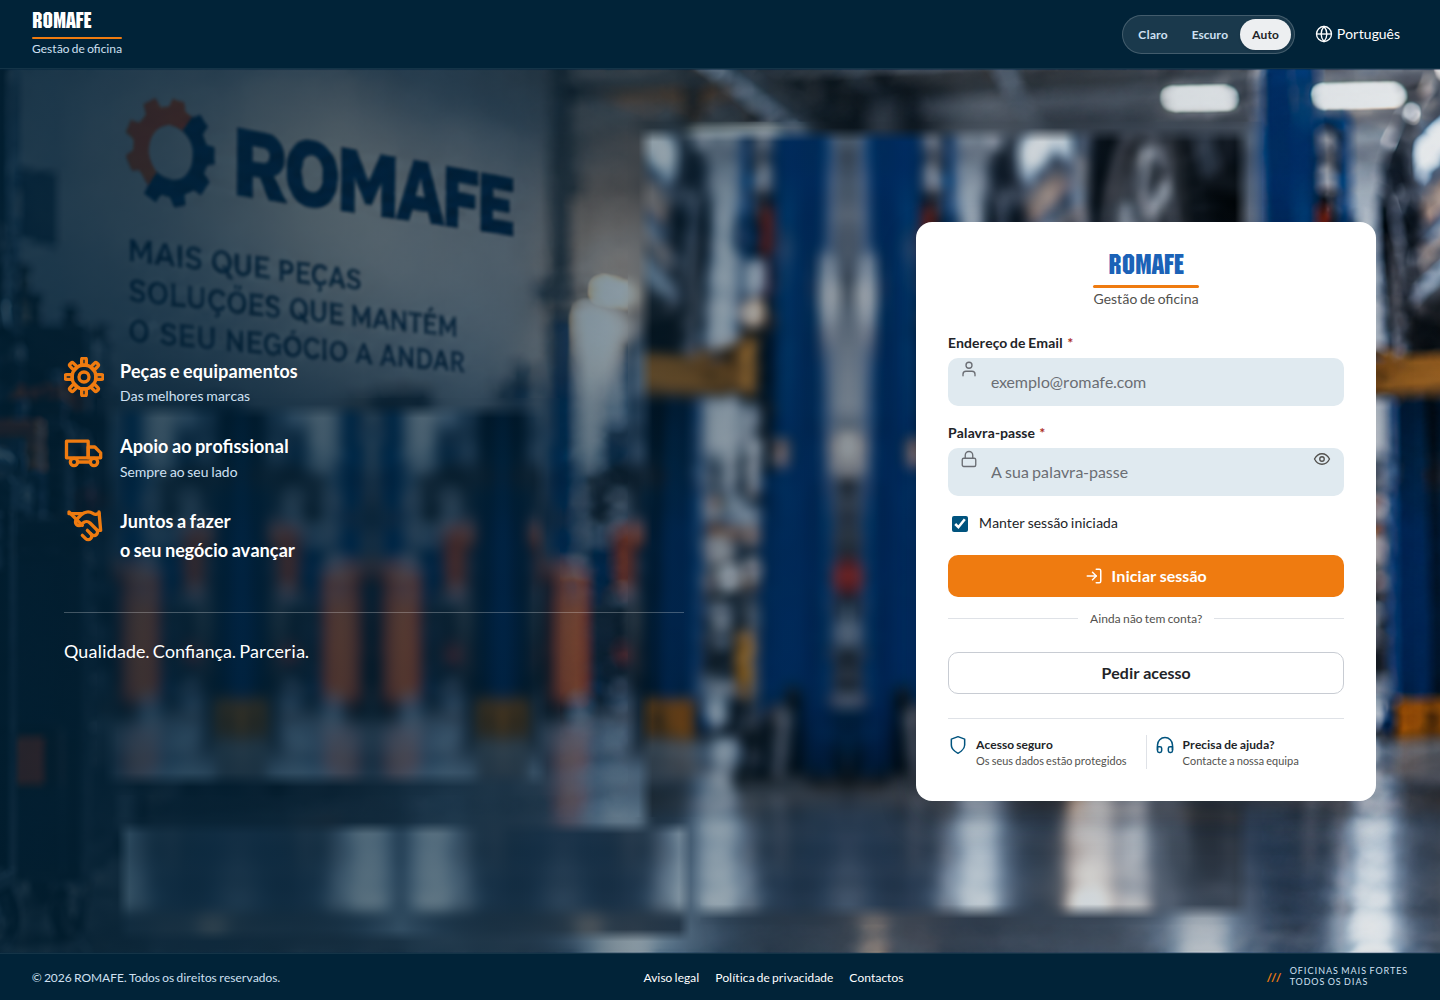
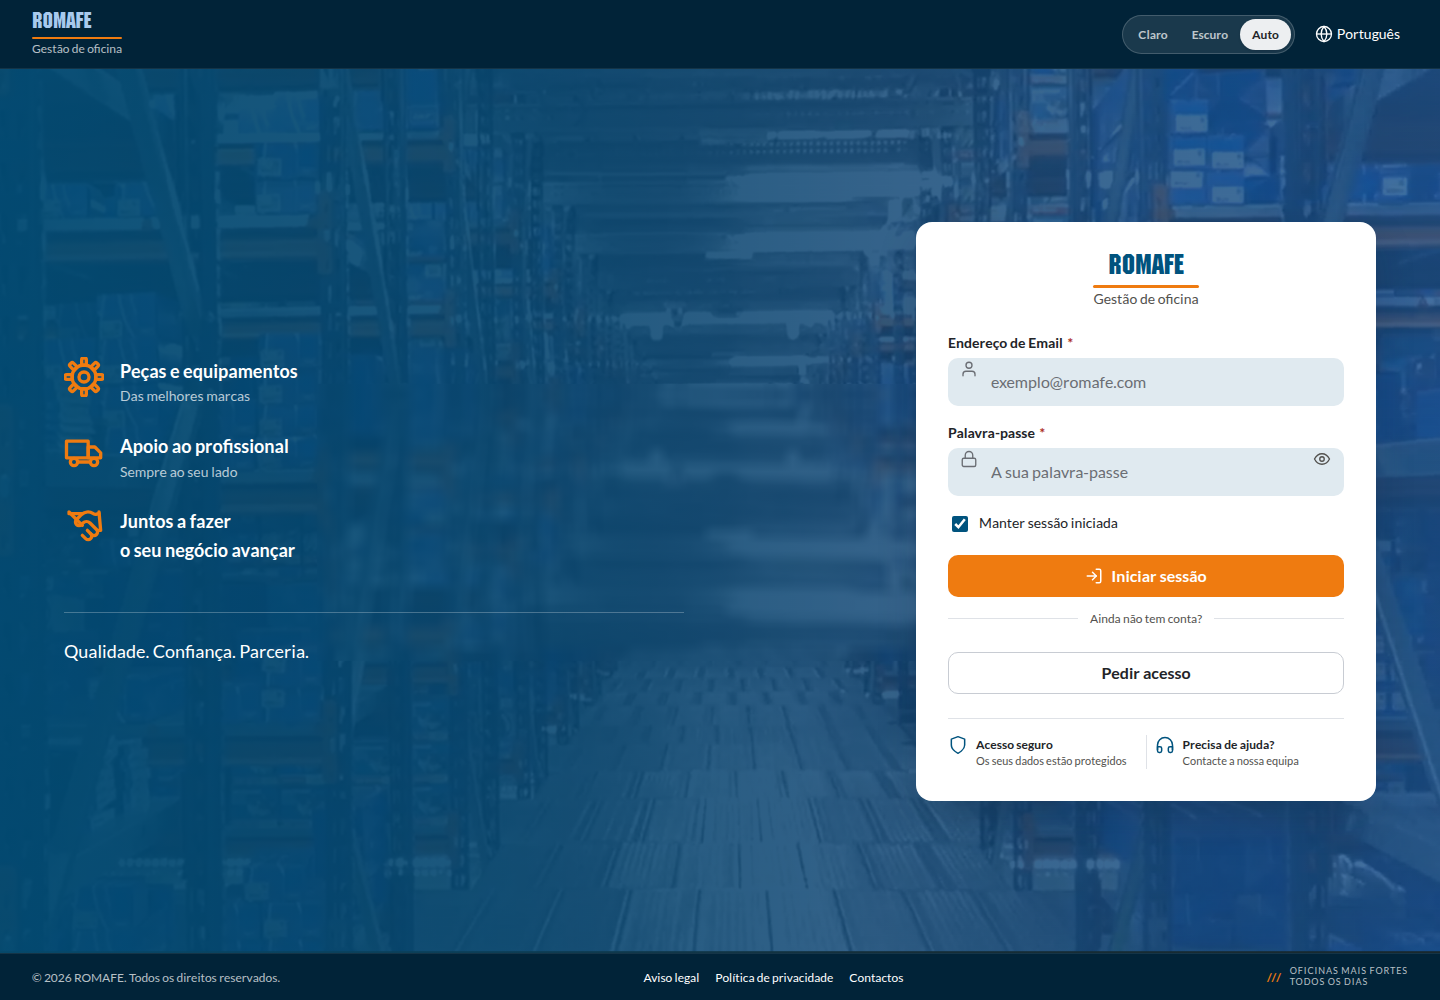
Os azuis passam a ser os do manual, e o fundo passa a ser o armazém
Tinha três cores que não existem no capítulo 02. O logótipo estava a #1b62b7,
tirado do logótipo impresso; a barra de topo escurecia para #1b1b19 no tema
escuro; e o texto de apoio sobre a fotografia era #cfe0f2. Nenhuma delas está na
tabela, e o §11.9 diz porquê isso é pior do que um azul errado: ninguém dá pela
diferença, e a identidade dissolve-se sem ninguém decidir nada.

Agora os dois azuis estão separados como o §11.4 obriga. O --c-marca-fundo é o
azul que é fundo e não muda com o tema, e serve a barra do portal e os
cabeçalhos dos painéis. O --c-logotipo é o azul que é tinta: #00537e no claro,
#a8caee no escuro. ROMAFE fica sempre azul e sempre em Motor, também sobre
fundo escuro, onde o #00537e daria 1.53:1.

A barra de topo volta a #012338 nos dois temas, pela razão do §6: se a navegação
clareasse no escuro, o produto passava a parecer dois. O texto sobre laranja
volta a ser branco sempre, que é o que o §3 diz.

A fotografia é agora o armazém, com o letreiro e os três botões apagados e
tapados com a própria fotografia espelhada de cima.

Claude-Session: https://claude.ai/code/session_01GVuYjnRH5bPY4K9mtqYcc2

diff --git a/web/documentacao.html b/web/documentacao.html
@@ -143,7 +143,7 @@
       <table class="tabela">
         <thead><tr><th>Peça</th><th>Valor</th><th>Razão</th></tr></thead>
         <tbody>
-          <tr><td>Nome</td><td>Motor, <code>--c-logotipo</code></td><td>É a letra e a cor da marca impressa</td></tr>
+          <tr><td>Nome</td><td>Motor, <code>--c-logotipo</code></td><td>ROMAFE é sempre azul e sempre em Motor</td></tr>
           <tr><td>Risco</td><td><code>--c-acao</code>, 3px</td><td>É o único sítio onde o laranja não é uma ação, e por isso não tem concorrência</td></tr>
           <tr><td>Subtítulo</td><td><code>--t-sm</code>, <code>--c-texto-2</code></td><td>Diz o que é o produto, não o que é a empresa</td></tr>
           <tr><td>Largura do risco</td><td>A do conjunto</td><td>Cresce com o subtítulo, não com o nome: é o que dá a mesma silhueta em qualquer tamanho</td></tr>
@@ -151,10 +151,11 @@
       </table>
 
       <p class="nota">
-        Sobre superfície escura, <code>.lockup--invertido</code>: o nome passa a
-        branco e o subtítulo à tinta clara. O azul do logótipo sobre o azul
-        escuro dá 1.53:1 e não se lê — é a armadilha de 17 §2.4. O risco laranja
-        e a ordem não mudam.
+        Sobre superfície escura, <code>.lockup--invertido</code>: o nome
+        continua azul, mas é o <code>#a8caee</code> — o azul que é tinta. O
+        <code>#00537e</code> sobre o azul escuro dá 1.53:1 e desaparece, e é por
+        isso que 02 §11.4 manda separar o azul que é fundo do azul que é tinta.
+        O risco laranja, a letra e a ordem não mudam.
       </p>
     </section>
 
@@ -430,11 +431,16 @@
         veres o estrago, não para o deixares assim.
       </p>
       <p>
-        A fotografia que vem no ficheiro foi tirada da própria maqueta: apaguei
-        o cartão, as vantagens e a assinatura, e tapei esses sítios com oficina
-        vinda de ao lado. A mensagem da parede é parte da fotografia, e por isso
-        o título grande da esquerda vem escondido — está em
-        <code>.esta-na-foto</code> e volta pelo painel, em Peça → Visível.
+        A fotografia que vem no ficheiro é o armazém do site, com o letreiro
+        <em>Rolling your way</em> e os três botões apagados e tapados com a
+        própria fotografia espelhada de cima. Em <code>assets/img/</code> está
+        também a oficina, tirada da maqueta da mesma maneira.
+      </p>
+      <p class="nota">
+        O título grande da esquerda vem escondido, em <code>.esta-na-foto</code>,
+        porque na fotografia da oficina a mensagem está pintada na parede. Com a
+        fotografia do armazém pode mostrar-se: escolhe a camada e carrega em
+        Peça → Visível.
       </p>
 
       <h3>Como se mexe</h3>
@@ -476,6 +482,9 @@
           <tr><td>Largura do cartão</td><td>400px, 19 §1</td><td>460px</td><td>É a largura da maqueta, e é o que faz as duas frases de apoio caberem numa linha</td></tr>
           <tr><td>Fundo dos campos</td><td>Branco</td><td><code>--c-marca-suave</code></td><td>Um campo branco dentro de um cartão branco não se vê</td></tr>
           <tr><td>Manter sessão iniciada</td><td>Desligada e com dica, 19 §5</td><td>Ligada e sem dica</td><td><strong>Contraria o manual.</strong> É o que está na maqueta. O manual quer o contrário porque o computador do armazém é partilhado</td></tr>
+          <tr><td>Azul do logótipo</td><td><code>#1b62b7</code>, tirado do logótipo impresso</td><td><code>#00537e</code> e <code>#a8caee</code></td><td>02 §11.9: um azul quase igual ao da marca é pior do que um azul errado, porque ninguém o vê</td></tr>
+          <tr><td>Barra de topo no tema escuro</td><td>Escurecia para quase preto</td><td>Fica <code>#012338</code></td><td>02 §6: se a navegação clareasse no escuro, o produto passava a parecer dois</td></tr>
+          <tr><td>Texto sobre o laranja</td><td>Escurecia no tema escuro</td><td>Branco sempre</td><td>02 §3: o par não muda porque o fundo também não</td></tr>
           <tr><td>Modo auto</td><td>O site trata-o como claro</td><td>Segue o sistema</td><td>O site não tem regra <code>prefers-color-scheme</code>. É a única diferença de comportamento, e está em <code>tokens.css</code></td></tr>
         </tbody>
       </table>

diff --git a/web/assets/css/tokens.css b/web/assets/css/tokens.css
@@ -114,24 +114,24 @@
 
 
 /* ---------- ACRESCENTOS DA ENTRADA ----------
-   O que o site não tinha por não ter ecrã de entrada. Nada aqui inventa
-   um valor novo: tudo sai dos tokens de cima ou do manual em PDF. */
+   Nenhuma cor nova (02 §11.2). Cada valor daqui está no capítulo 02,
+   e os dois azuis estão separados como o §11.4 obriga: um é fundo e não
+   muda com o tema, o outro é tinta e muda. */
 :root {
+  --c-marca-fundo:    #00537e;                 /* 02 §6: o azul é o mesmo nos dois temas */
   --c-entrada-fundo:  #012338;                 /* 02 §1.1 superfície invertida */
-  --c-entrada-veu:    rgba(1, 35, 56, .78);
+  --c-entrada-veu:    rgba(0, 83, 126, .78);   /* 02 §1.1: as transparências do azul */
   --c-entrada-tinta:  #ffffff;
-  --c-entrada-tinta-2:#cfe0f2;
-  --c-logotipo:       #1b62b7;                 /* azul do logotipo impresso */
+  --c-entrada-tinta-2: rgba(255, 255, 255, .72); /* 02 §6: o branco a 72% do menu */
+  --c-logotipo:       #00537e;                 /* o azul da marca, e não um parecido */
+  --c-campo-fundo:    var(--c-marca-suave);    /* 02 §4.2: o fundo do selo de informação */
   --a-campo:          44px;                    /* 19 §2: 44 e não 42 */
   --l-cartao:         460px;                   /* a maqueta. O 19 §1 pede 400 */
-  --c-campo-fundo:    var(--c-marca-suave);    /* o azul lavado dos campos da maqueta */
 }
 
-[data-theme="dark"] {
-  --c-entrada-fundo:  #1b1b19;
-  --c-entrada-veu:    rgba(20, 20, 18, .86);
-  --c-logotipo:       #a8caee;                 /* 02 §1.1: o azul que é tinta */
-}
+/* 02 §11.4: sobre fundo escuro o azul da marca dá 1.53:1. O azul que é
+   tinta muda; o que é fundo fica onde está. */
+[data-theme="dark"] { --c-logotipo: #a8caee; }
 
 /* O site trata "auto" como claro, porque não tem regra de sistema.
    Aqui auto segue o sistema — é a única diferença de comportamento. */
@@ -164,8 +164,6 @@
     --s-2: 0 4px 14px rgba(0,0,0,.45);
     --s-3: 0 18px 44px rgba(0,0,0,.55);
 
-    --c-entrada-fundo:  #1b1b19;
-    --c-entrada-veu:    rgba(20, 20, 18, .86);
-    --c-logotipo:       #a8caee;
+    --c-logotipo:     #a8caee;
   }
 }

diff --git a/web/assets/css/portal.css b/web/assets/css/portal.css
@@ -8,7 +8,7 @@
 /* ---------- barra de topo ---------- */
 .portal__topo {
   display: flex; align-items: center; justify-content: space-between; gap: var(--e-4);
-  padding: var(--e-2) var(--e-5); background: var(--c-marca); color: #fff;
+  padding: var(--e-2) var(--e-5); background: var(--c-marca-fundo); color: #fff;
 }
 .portal__icones { display: flex; align-items: center; gap: var(--e-3); }
 .portal__icone {
@@ -46,7 +46,7 @@
 }
 .painel__cabeca {
   display: flex; align-items: center; gap: var(--e-2);
-  padding: var(--e-3) var(--e-4); background: var(--c-marca); color: #fff;
+  padding: var(--e-3) var(--e-4); background: var(--c-marca-fundo); color: #fff;
 }
 .painel__cabeca svg { width: 20px; height: 20px; flex: none; }
 .painel__titulo { font-family: var(--f-titulo); font-size: var(--t-lg); margin: 0; font-weight: 600; }
@@ -63,7 +63,7 @@
 .matricula { display: flex; align-items: stretch; }
 .matricula__pais {
   display: grid; place-items: center; width: 34px; flex: none;
-  background: var(--c-marca); color: #fff; font-size: var(--t-xs); font-weight: 700;
+  background: var(--c-marca-fundo); color: #fff; font-size: var(--t-xs); font-weight: 700;
   border: 1px solid var(--c-borda-forte); border-right: 0;
   border-radius: var(--r-md) 0 0 var(--r-md);
 }

diff --git a/web/assets/css/base.css b/web/assets/css/base.css
@@ -63,7 +63,7 @@ code, kbd, pre { font-family: var(--f-mono); font-size: .875em; }
   font-weight: 700;                    /* 02 §1: o peso paga o contraste do laranja */
 }
 .btn--acao:hover { background: var(--c-acao-traco); }
-[data-theme="dark"] .btn--acao { color: #2c2c2a; }
+/* 02 §3: o texto sobre laranja é branco, e não muda com o tema. */
 
 .btn__icone { width: 18px; height: 18px; flex: none; }
 
@@ -133,7 +133,8 @@ code, kbd, pre { font-family: var(--f-mono); font-size: .875em; }
 .lockup--sm .lockup__sub { font-size: var(--t-xs); }
 .lockup--sm .lockup__risco { height: 2px; }
 
-/* Sobre superfície escura o azul do logótipo dá 1.53:1 e não se lê — 17 §2.4.
-   O nome passa a branco; o risco laranja e a ordem não mudam. */
-.lockup--invertido .lockup__nome { color: #fff; }
+/* ROMAFE é sempre azul e sempre em Motor. Sobre superfície escura o
+   #00537e dá 1.53:1 e desaparece, por isso o azul que se usa lá é o
+   #a8caee — o azul que é tinta, de 02 §1.1 e §11.4. Continua a ser azul. */
+.lockup--invertido .lockup__nome { color: #a8caee; }
 .lockup--invertido .lockup__sub { color: var(--c-entrada-tinta-2); }

diff --git a/web/assets/css/entrada.css b/web/assets/css/entrada.css
@@ -41,7 +41,7 @@
 .palco__foto {
   position: absolute; inset: 0; z-index: -2;
   background-color: var(--c-entrada-fundo);
-  background-image: url('../img/oficina.png');
+  background-image: url('../img/armazem.png');
   background-size: cover; background-position: center; background-repeat: no-repeat;
 }
 
@@ -50,16 +50,9 @@
   position: absolute; inset: 0; z-index: -1;
   background: linear-gradient(90deg,
     var(--c-entrada-veu) 0%,
-    rgba(1, 35, 56, .58) 34%,
-    rgba(1, 35, 56, .22) 62%,
-    rgba(1, 35, 56, .10) 100%);
-}
-[data-theme="dark"] .palco__veu {
-  background: linear-gradient(90deg,
-    var(--c-entrada-veu) 0%,
-    rgba(20, 20, 18, .72) 34%,
-    rgba(20, 20, 18, .48) 62%,
-    rgba(20, 20, 18, .38) 100%);
+    rgba(0, 83, 126, .56) 34%,
+    rgba(0, 83, 126, .24) 62%,
+    rgba(0, 83, 126, .12) 100%);
 }
 
 .discurso { color: var(--c-entrada-tinta); max-width: 620px; }
